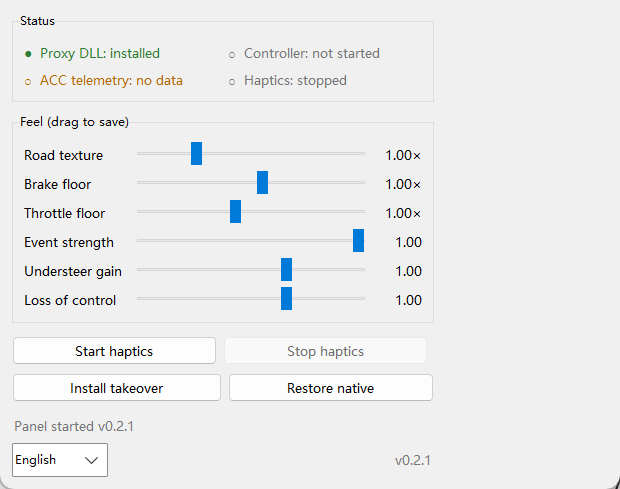
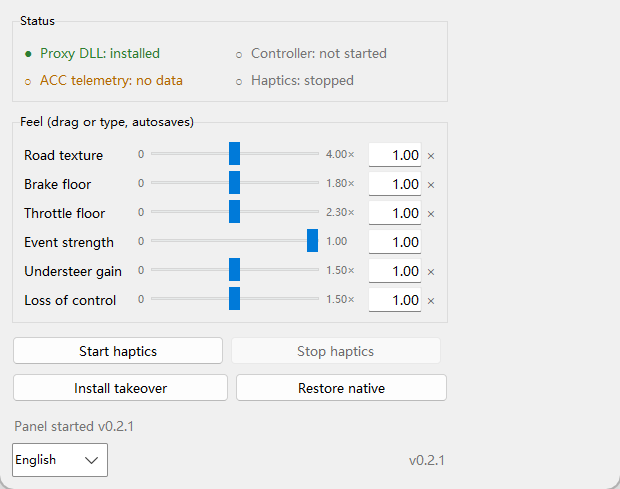
v0.2.1: 倍率滑块居中、端点标签与数值输入
五个倍率滑块（路面 / 刹车 / 油门 / 推头 / 失控）改成非线性位置：
中点固定为 1.00，左半段 0→1，右半段 1→各自上限，保留最大倍率。
两端标出最小/最大，右侧数值框可直接输入；回车或失焦生效，Esc 取消，
超出范围会夹到边界并提示。README、截图、exe 指纹同步更新。

diff --git a/src/panel.py b/src/panel.py
@@ -22,6 +22,7 @@
 import ctypes
 import json
 import logging
+import math
 import os
 import re
 import shutil
@@ -83,7 +84,7 @@ _ACC_RELATIVE = Path("steamapps") / "common" / "Assetto Corsa Competizione" \
     / "AC2" / "Binaries" / "Win64"
 _ACC_CACHE = {"at": 0.0, "path": None}
 
-# 滑块：(键, 文案键, 上限)。上限只是"拖到头"的位置，不改变程序里的合法范围。
+# 滑块：(键, 文案键, 上限)。上限是滑块最右端对应的实际数值。
 SLIDERS = (
     ("grip_road", "sl_road", 4.00),
     ("trigger_floor", "sl_brake", 1.80),
@@ -93,8 +94,40 @@ SLIDERS = (
     ("loss_gain", "sl_loss", 1.50),
 )
 
-# 这三项是倍率：1.00 = 标准手感。界面和日志里数值后面加 ×，免得被当成绝对强度。
-GAIN_KEYS = ("grip_road", "trigger_floor", "throttle_floor")
+# 这五项是倍率：1.00 = 标准手感，界面和日志里数值后面加 ×。
+GAIN_KEYS = ("grip_road", "trigger_floor", "throttle_floor",
+             "understeer_gain", "loss_gain")
+
+TOPS = {key: top for key, _label, top in SLIDERS}
+LABEL_KEYS = {key: label for key, label, _top in SLIDERS}
+
+# 倍率滑块的位置范围固定为 0~2：中点 1.00 是标准值，
+# 左半段 0~1 线性，右半段 1~上限线性。这样 1.00 永远在正中间，
+# 同时保留各自的最大倍率（路面 4×，刹车 1.8× ……）。
+SLIDER_SPAN = 2.0
+SMALL_FONT = ("Microsoft YaHei UI", 8)
+
+
+def value_to_position(key, value):
+    """实际倍率 → 滑块位置（0~2）。非倍率项原样返回。"""
+    if key not in GAIN_KEYS:
+        return value
+    top = max(1.0, TOPS[key])
+    value = max(0.0, min(top, value))
+    if value <= 1.0:
+        return value
+    return 1.0 + (value - 1.0) / (top - 1.0)
+
+
+def position_to_value(key, position):
+    """滑块位置（0~2）→ 实际倍率。非倍率项原样返回。"""
+    if key not in GAIN_KEYS:
+        return position
+    top = max(1.0, TOPS[key])
+    position = max(0.0, min(SLIDER_SPAN, position))
+    if position <= 1.0:
+        return position
+    return 1.0 + (position - 1.0) * (top - 1.0)
 
 
 def format_value(key, value):
@@ -415,6 +448,8 @@ class Panel:
         self._guard = threading.Lock()
         self._last_line = ""
         self._write_job = None
+        self._flash_jobs = {}
+        self._syncing = False
         self._closing = False
 
         root.title("ACC Trigger Haptics")
@@ -487,23 +522,49 @@ class Panel:
         # 滑块
         tuning = load_tuning()
         self.vars = {}
-        self.value_labels = {}
+        self.value_vars = {}
+        self.value_entries = {}
         sliders = ttk.LabelFrame(frame, text=t("group_tuning"), padding=8)
         sliders.grid(row=1, column=0, columnspan=3, sticky="ew", pady=(10, 0))
         for row, (key, label_key, top) in enumerate(SLIDERS):
+            is_gain = key in GAIN_KEYS
             ttk.Label(sliders, text=t(label_key), width=13).grid(
                 row=row, column=0, sticky="w", pady=3)
-            var = tk.DoubleVar(value=float(tuning[key]))
+            ttk.Label(sliders, text="0", width=2, anchor="e",
+                      foreground=C_GRAY, font=SMALL_FONT).grid(
+                row=row, column=1, sticky="e")
+
+            var = tk.DoubleVar(
+                value=value_to_position(key, float(tuning[key])))
             self.vars[key] = var
-            ttk.Scale(sliders, from_=0.0, to=top, variable=var,
-                      orient="horizontal", length=230,
+            span = SLIDER_SPAN if is_gain else top
+            ttk.Scale(sliders, from_=0.0, to=span, variable=var,
+                      orient="horizontal", length=170,
                       command=lambda _v, k=key: self._on_slide(k)).grid(
-                row=row, column=1, sticky="ew", padx=6)
-            value = ttk.Label(sliders, text=format_value(key, float(tuning[key])),
-                              width=6, anchor="e")
-            value.grid(row=row, column=2, sticky="e")
-            self.value_labels[key] = value
-        sliders.columnconfigure(1, weight=1)
+                row=row, column=2, sticky="ew", padx=4)
+
+            ttk.Label(sliders, text=format_value(key, top), width=6,
+                      anchor="w", foreground=C_GRAY, font=SMALL_FONT).grid(
+                row=row, column=3, sticky="w")
+
+            text = tk.StringVar(value="%.2f" % position_to_value(
+                key, float(var.get())))
+            self.value_vars[key] = text
+            entry = ttk.Entry(sliders, textvariable=text, width=6,
+                              justify="right", font=font)
+            entry.grid(row=row, column=4, sticky="e", padx=(4, 0))
+            entry.bind("<Return>", lambda _e, k=key: self._commit_entry(k))
+            entry.bind("<KP_Enter>", lambda _e, k=key: self._commit_entry(k))
+            entry.bind("<FocusOut>", lambda _e, k=key: self._commit_entry(k))
+            entry.bind("<Escape>", lambda _e, k=key: self._cancel_entry(k))
+            entry.bind("<FocusIn>",
+                       lambda _e, k=key, w=entry: self._focus_entry(k, w))
+            self.value_entries[key] = entry
+
+            ttk.Label(sliders, text="×" if is_gain else "",
+                      foreground=C_GRAY).grid(
+                row=row, column=5, sticky="w", padx=(2, 0))
+        sliders.columnconfigure(2, weight=1)
 
         # 按钮
         buttons = ttk.Frame(frame)
@@ -559,21 +620,122 @@ class Panel:
         settings = load_settings()
         settings["language"] = code
         save_settings(settings)
+        for job in self._flash_jobs.values():
+            try:
+                self.root.after_cancel(job)
+            except Exception:
+                pass
+        self._flash_jobs.clear()
         for child in self.root.winfo_children():
             child.destroy()
         self._build()
 
     # ── 交互 ─────────────────────────────────────────────────────
+    def _current_value(self, key):
+        return position_to_value(key, float(self.vars[key].get()))
+
+    def _show_value(self, key):
+        self.value_vars[key].set("%.2f" % self._current_value(key))
+
     def _on_slide(self, key):
-        value = self.vars[key].get()
-        self.value_labels[key].configure(text=format_value(key, value))
+        if self._syncing:
+            return
+        self._show_value(key)
+        self._flash_entry(key, None)
         if self._write_job is not None:
             self.root.after_cancel(self._write_job)
         self._write_job = self.root.after(250, self._flush_values)
 
+    def _focus_entry(self, key, widget):
+        try:
+            widget.selection_range(0, "end")
+        except tk.TclError:
+            pass
+
+    def _cancel_entry(self, key):
+        self._show_value(key)
+        self._flash_entry(key, None)
+        self.root.focus_set()
+
+    def _commit_entry(self, key):
+        label = t(LABEL_KEYS[key])
+        raw = self.value_vars[key].get().strip()
+        text = raw.replace("×", "").replace("x", "").replace("X", "")
+        text = text.replace(",", ".").strip()
+
+        # 没改过就只是失焦，不重复写文件。
+        if text == "%.2f" % self._current_value(key):
+            self._show_value(key)
+            return
+
+        try:
+            value = float(text)
+            if not math.isfinite(value):
+                raise ValueError
+        except (TypeError, ValueError):
+            self._show_value(key)
+            self._flash_entry(key, C_RED)
+            self.log(t("log_value_bad", label))
+            return
+
+        top = TOPS[key]
+        clamped = max(0.0, min(top, value))
+
+        self._syncing = True
+        try:
+            self.vars[key].set(value_to_position(key, clamped))
+        finally:
+            self._syncing = False
+        self._show_value(key)
+
+        if self._write_job is not None:
+            self.root.after_cancel(self._write_job)
+            self._write_job = None
+        self._flush_values()
+
+        # 保存日志先写，再把范围提示放到最后，保证底部先看到的是提示。
+        if clamped != value:
+            self._flash_entry(key, C_AMBER)
+            if value > top:
+                self.log(t("log_value_max", label, format_value(key, top)))
+            else:
+                self.log(t("log_value_min", label))
+        else:
+            self._flash_entry(key, None)
+
+    def _flash_entry(self, key, color):
+        """输入框闪一下颜色：红色=格式错误，琥珀=超出范围。"""
+        entry = self.value_entries.get(key)
+        if entry is None:
+            return
+        job = self._flash_jobs.pop(key, None)
+        if job is not None:
+            try:
+                self.root.after_cancel(job)
+            except Exception:
+                pass
+        try:
+            entry.configure(foreground=color or "black")
+        except tk.TclError:
+            return
+        if color is None:
+            return
+
+        def reset():
+            self._flash_jobs.pop(key, None)
+            widget = self.value_entries.get(key)
+            if widget is not None:
+                try:
+                    widget.configure(foreground="black")
+                except tk.TclError:
+                    pass
+
+        self._flash_jobs[key] = self.root.after(1800, reset)
+
     def _flush_values(self):
         self._write_job = None
-        values = {key: round(float(var.get()), 2) for key, var in self.vars.items()}
+        values = {key: round(position_to_value(key, float(var.get())), 2)
+                  for key, var in self.vars.items()}
         try:
             save_values(config_path(), values)
         except Exception as exc:

diff --git a/src/i18n.py b/src/i18n.py
@@ -33,7 +33,8 @@ MESSAGES = {
 
     # ── 面板：分组与控件 ──────────────────────────────────────────
     "group_status": ("状态", "Status"),
-    "group_tuning": ("手感（拖动即保存）", "Feel (drag to save)"),
+    "group_tuning": ("手感（拖动或输入，自动保存）",
+                     "Feel (drag or type, autosaves)"),
     "sl_road": ("路面纹理", "Road texture"),
     "sl_brake": ("刹车底层", "Brake floor"),
     "sl_throttle": ("油门底层", "Throttle floor"),
@@ -49,8 +50,14 @@ MESSAGES = {
     # ── 面板：提示与日志 ──────────────────────────────────────────
     "log_started": ("面板已启动 v%s", "Panel started v%s"),
     "log_exit": ("面板退出", "Panel closed"),
-    "log_saved": ("手感已保存：路面 %.2f× ｜ 刹车 %.2f× ｜ 油门 %.2f× ｜ 事件 %.2f ｜ 推头 %.2f ｜ 失控 %.2f",
-                  "Feel saved: road %.2f× | brake %.2f× | throttle %.2f× | event %.2f | understeer %.2f | loss of control %.2f"),
+    "log_saved": ("手感已保存：路面 %.2f× ｜ 刹车 %.2f× ｜ 油门 %.2f× ｜ 事件 %.2f ｜ 推头 %.2f× ｜ 失控 %.2f×",
+                  "Feel saved: road %.2f× | brake %.2f× | throttle %.2f× | event %.2f | understeer %.2f× | loss of control %.2f×"),
+    "log_value_max": ("%s 最大 %s，已按上限处理。",
+                      "%s max is %s; using the maximum."),
+    "log_value_min": ("%s 最小 0，已按 0 处理。",
+                      "%s minimum is 0; using 0."),
+    "log_value_bad": ("%s 需要一个数字，已恢复原值。",
+                      "%s needs a number; reverted to the previous value."),
     "log_save_fail": ("保存手感失败：%s", "Saving feel settings failed: %s"),
     "log_starting": ("正在启动震动……", "Starting haptics…"),
     "log_stopping": ("正在停止……", "Stopping…"),
@@ -146,8 +153,8 @@ MESSAGES = {
     "cfg_out_of_range": ("[手感] %s = %.2f 超出 %.2f~%.2f，按 %.2f 处理。",
                          "[Settings] %s = %.2f is outside %.2f~%.2f; using %.2f."),
     "cfg_updated": ("[手感] 已更新：%s", "[Settings] Updated: %s"),
-    "cfg_tuning_text": ("路面 %.2f× ｜ 刹车底层 %.2f× ｜ 油门底层 %.2f× ｜ 事件 %.2f ｜ 推头 %.2f ｜ 失控 %.2f",
-                        "Road %.2f× | Brake floor %.2f× | Throttle floor %.2f× | Event %.2f | Understeer %.2f | Loss of control %.2f"),
+    "cfg_tuning_text": ("路面 %.2f× ｜ 刹车底层 %.2f× ｜ 油门底层 %.2f× ｜ 事件 %.2f ｜ 推头 %.2f× ｜ 失控 %.2f×",
+                        "Road %.2f× | Brake floor %.2f× | Throttle floor %.2f× | Event %.2f | Understeer %.2f× | Loss of control %.2f×"),
 
     # ── 命令行版 ──────────────────────────────────────────────────
     "cli_preflight": ("开始前确认：", "Before you start:"),

diff --git a/src/haptics_engine.py b/src/haptics_engine.py
@@ -200,8 +200,8 @@ CONFIG_TEMPLATE = """# ACC Trigger Haptics · 手感设置
 #
 # 只改等号 = 右边的数字。# 后面是说明，改了不会生效。
 # 改完保存：程序每秒检查一次，1 秒内生效，不用重启。
-# 强度类：数字越大越强。路面 / 刹车 / 油门是倍率，1.00 = 标准手感，2.00 = 两倍。
-# 事件 / 推头 / 失控是 0~1 的强度，1.00 = 满幅。
+# 强度类：数字越大越强。路面 / 刹车 / 油门 / 推头 / 失控是倍率，1.00 = 标准手感。
+# 事件强度是 0~1 的振幅，1.00 = 满幅。
 
 grip_road = %(grip_road).2f      # 握把·路面纹理（倍率，1.00 = 标准）
 
@@ -215,7 +215,7 @@ throttle_floor = %(throttle_floor).2f
 
 trigger_event = %(trigger_event).2f   # 扳机事件：锁死 / ABS / 后轮打滑（0 ~ 1.0）
 
-# 右扳机：推头强度（前轮比后轮多滑时震）。1.0 是满幅，0 = 关掉推头。
+# 右扳机：推头强度（前轮比后轮多滑时震）。1.0 是标准强度，0 = 关掉推头。
 understeer_gain = %(understeer_gain).2f
 
 # 两个握把：失控强度（车尾横滑 / 甩尾 / 打转时震，两个握把同强度）。

diff --git a/README.md b/README.md
@@ -22,7 +22,7 @@ motors: grips for road feel, triggers for braking, throttle and tyre limits.
 
 The program is not code-signed, so Windows may warn that the publisher is unknown. That is expected.
 
[3 lines of base64/hex data omitted]
 - Multi-engine scan (VirScan, 30 engines): [v0.2.0 exe](https://www.virscan.org/report/4e4482472f3b62f87246e50194903a372bc64e93bd57e0fdf6c3069cb45a6cd0) · [proxy DLL](https://www.virscan.org/report/8e284775850c9cba345b2b9912a71a45050f84c9186a0387387f5105cd4afe6c). The v0.2.1 exe has not been rescanned yet.
 - The proxy DLL is ~60 lines of C: [`proxy.c`](tools/xinput_proxy/proxy.c); build command in the README next to it
@@ -216,7 +216,7 @@ The log contains only runtime status and local paths, no account credentials.
 
 ## Tuning
 
-Six sliders in the panel, saved as you drag:
+Six sliders in the panel; drag them or type a value, and changes are saved automatically:
 
 | Slider | What it does | Default | Suggested range |
 | --- | --- | --- | --- |
@@ -224,12 +224,17 @@ Six sliders in the panel, saved as you drag:
 | Brake floor | Left trigger follows brake pressure | 1.00 | 0 – 1.8 |
 | Throttle floor | Right trigger follows throttle | 1.00 | 0 – 2.3 |
 | Event strength | Pulse strength for lock / ABS / wheelspin | 0.75 | 0 – 1.0 |
-| Understeer gain | Right trigger strength when the front pushes; 0 = off | 1.00 | 0 – 1.0 |
-| Loss of control | Both grips when the rear slides / spins; 0 = off | 1.00 | 0 – 1.0 |
+| Understeer gain | Right trigger strength when the front pushes; 0 = off | 1.00 | 0 – 1.5 |
+| Loss of control | Both grips when the rear slides / spins; 0 = off | 1.00 | 0 – 1.5 |
 
-Road / brake / throttle are **multipliers**: `1.00` is the standard feel, `2.00` is
-twice as strong, `0` turns it off. Above about `1.25` on the brake floor, lock / ABS
-contrast gets weaker — more is not better.
+Road texture, brake floor, throttle floor, understeer gain and loss of control are
+**multipliers**: `1.00` is the standard feel, `0` turns the channel off. On these five
+sliders `1.00` sits in the middle: the left half goes `0 → 1.00`, the right half
+`1.00 → the maximum` shown at the end.
+
+The value box on the right accepts direct input: press Enter or click away to apply,
+Esc to cancel. Values above the maximum are clamped and reported.
+Above about `1.25` on the brake floor, lock / ABS contrast gets weaker — more is not better.
 
 **How to tune:**
 

diff --git a/README.zh-CN.md b/README.zh-CN.md
@@ -20,7 +20,7 @@
 
 程序没有数字签名，Windows 可能提示「未知发布者」，这是正常的。
 
[3 lines of base64/hex data omitted]
 - 多引擎扫描结果（VirScan，30 个引擎）：[v0.2.0 的 exe](https://www.virscan.org/report/4e4482472f3b62f87246e50194903a372bc64e93bd57e0fdf6c3069cb45a6cd0) · [代理 DLL](https://www.virscan.org/report/8e284775850c9cba345b2b9912a71a45050f84c9186a0387387f5105cd4afe6c)。v0.2.1 的 exe 尚未重新扫描。
 - 代理 DLL 只有 60 行 C 源码：[`proxy.c`](tools/xinput_proxy/proxy.c)，编译命令在同目录的 README
@@ -207,7 +207,7 @@ ACC 要进赛道；主菜单、暂停时都没有数据。
 
 ## 调手感
 
-面板上六个滑块，拖动即保存：
+面板上六个滑块，拖动或直接输入数值，自动保存：
 
 | 滑块 | 作用 | 默认 | 建议范围 |
 | --- | --- | --- | --- |
@@ -215,10 +215,14 @@ ACC 要进赛道；主菜单、暂停时都没有数据。
 | 刹车底层 | 左扳机跟着刹车深度震 | 1.00 | 0 ~ 1.8 |
 | 油门底层 | 右扳机跟着油门深度震 | 1.00 | 0 ~ 2.3 |
 | 事件强度 | 锁死 / ABS / 后轮打滑的脉冲强度 | 0.75 | 0 ~ 1.0 |
-| 推头强度 | 推头时右扳机的强度，0 = 关掉 | 1.00 | 0 ~ 1.0 |
-| 失控强度 | 车尾横滑 / 打转时两个握把的强度，0 = 关掉 | 1.00 | 0 ~ 1.0 |
+| 推头强度 | 推头时右扳机的强度，0 = 关掉 | 1.00 | 0 ~ 1.5 |
+| 失控强度 | 车尾横滑 / 打转时两个握把的强度，0 = 关掉 | 1.00 | 0 ~ 1.5 |
 
-路面 / 刹车 / 油门是**倍率**：`1.00` 是标准手感，`2.00` 是两倍，`0` 是关掉。
+路面 / 刹车 / 油门 / 推头 / 失控都是**倍率**：`1.00` 是标准手感，`0` 是关掉。
+这五个滑块的 `1.00` 在正中间：左半段 `0 → 1.00`，右半段 `1.00 → 上限`；
+两端标了最小值和最大值。
+
+右侧输入框可以直接输入数字：回车或点走焦点生效，Esc 取消；超出上限会夹到上限并提示。
 刹车底层超过 `1.25` 左右，锁死 / ABS 的对比会变弱——不是越大越好。
 
 **怎么调：**
